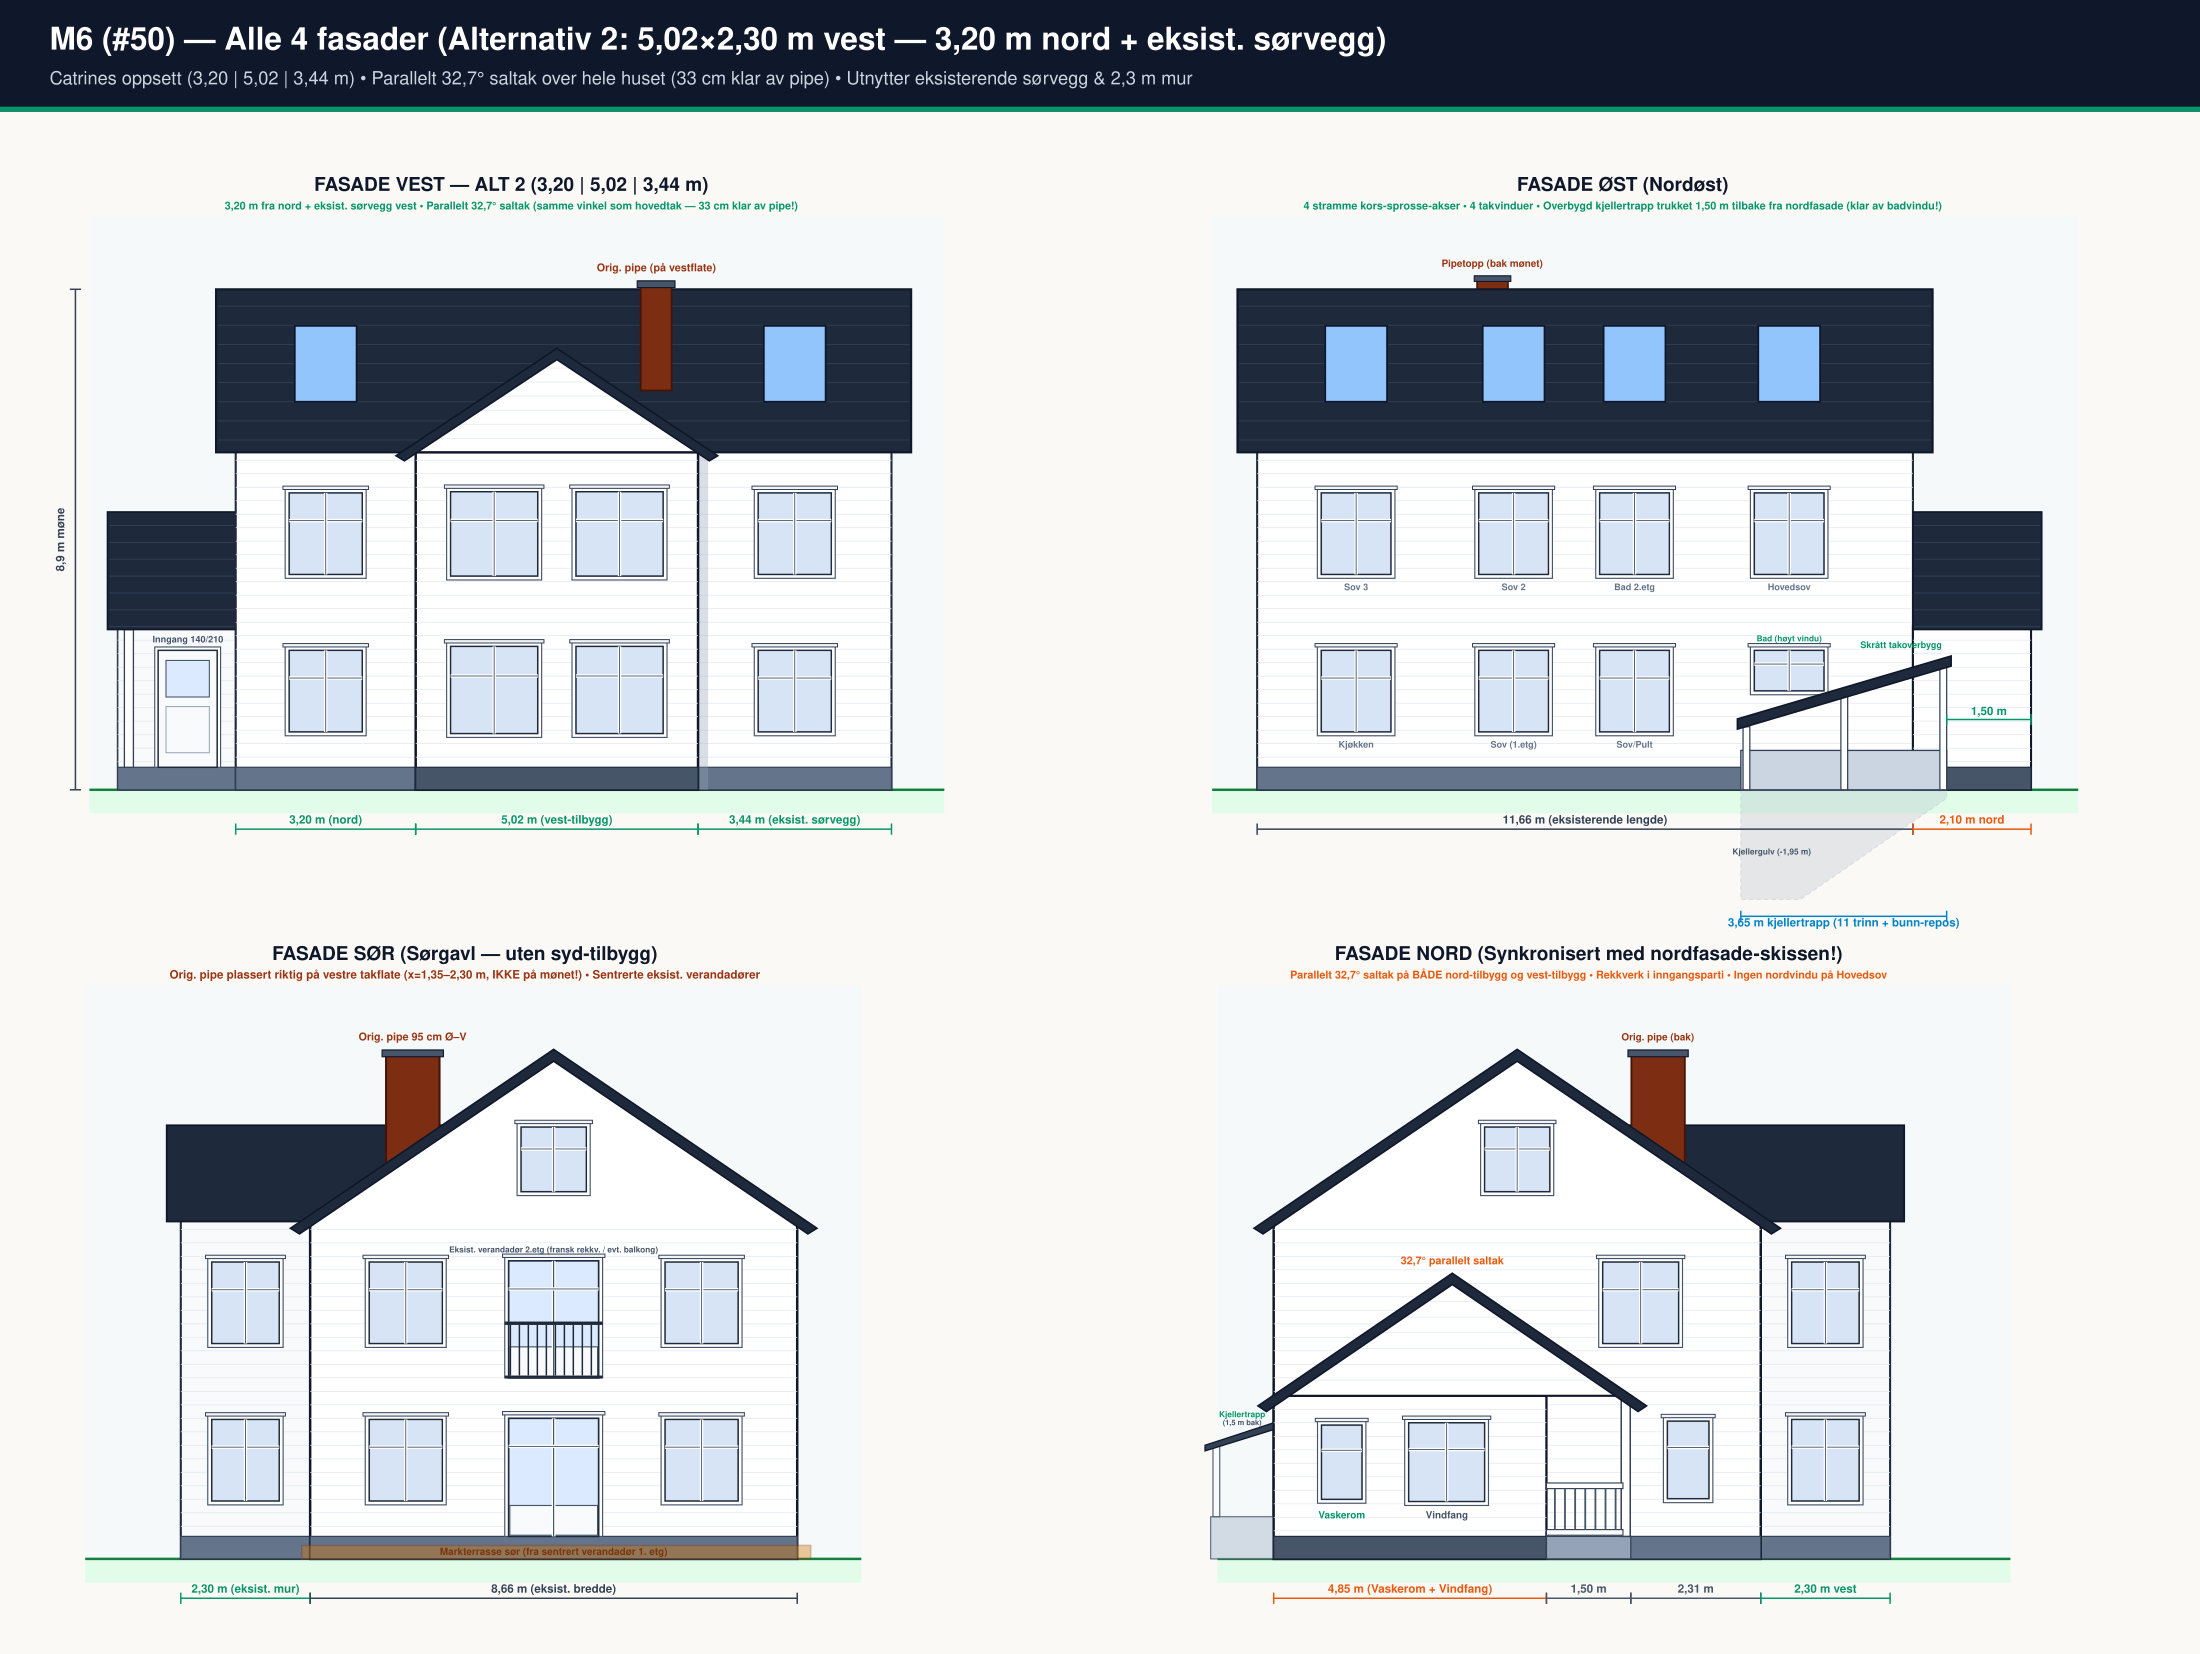
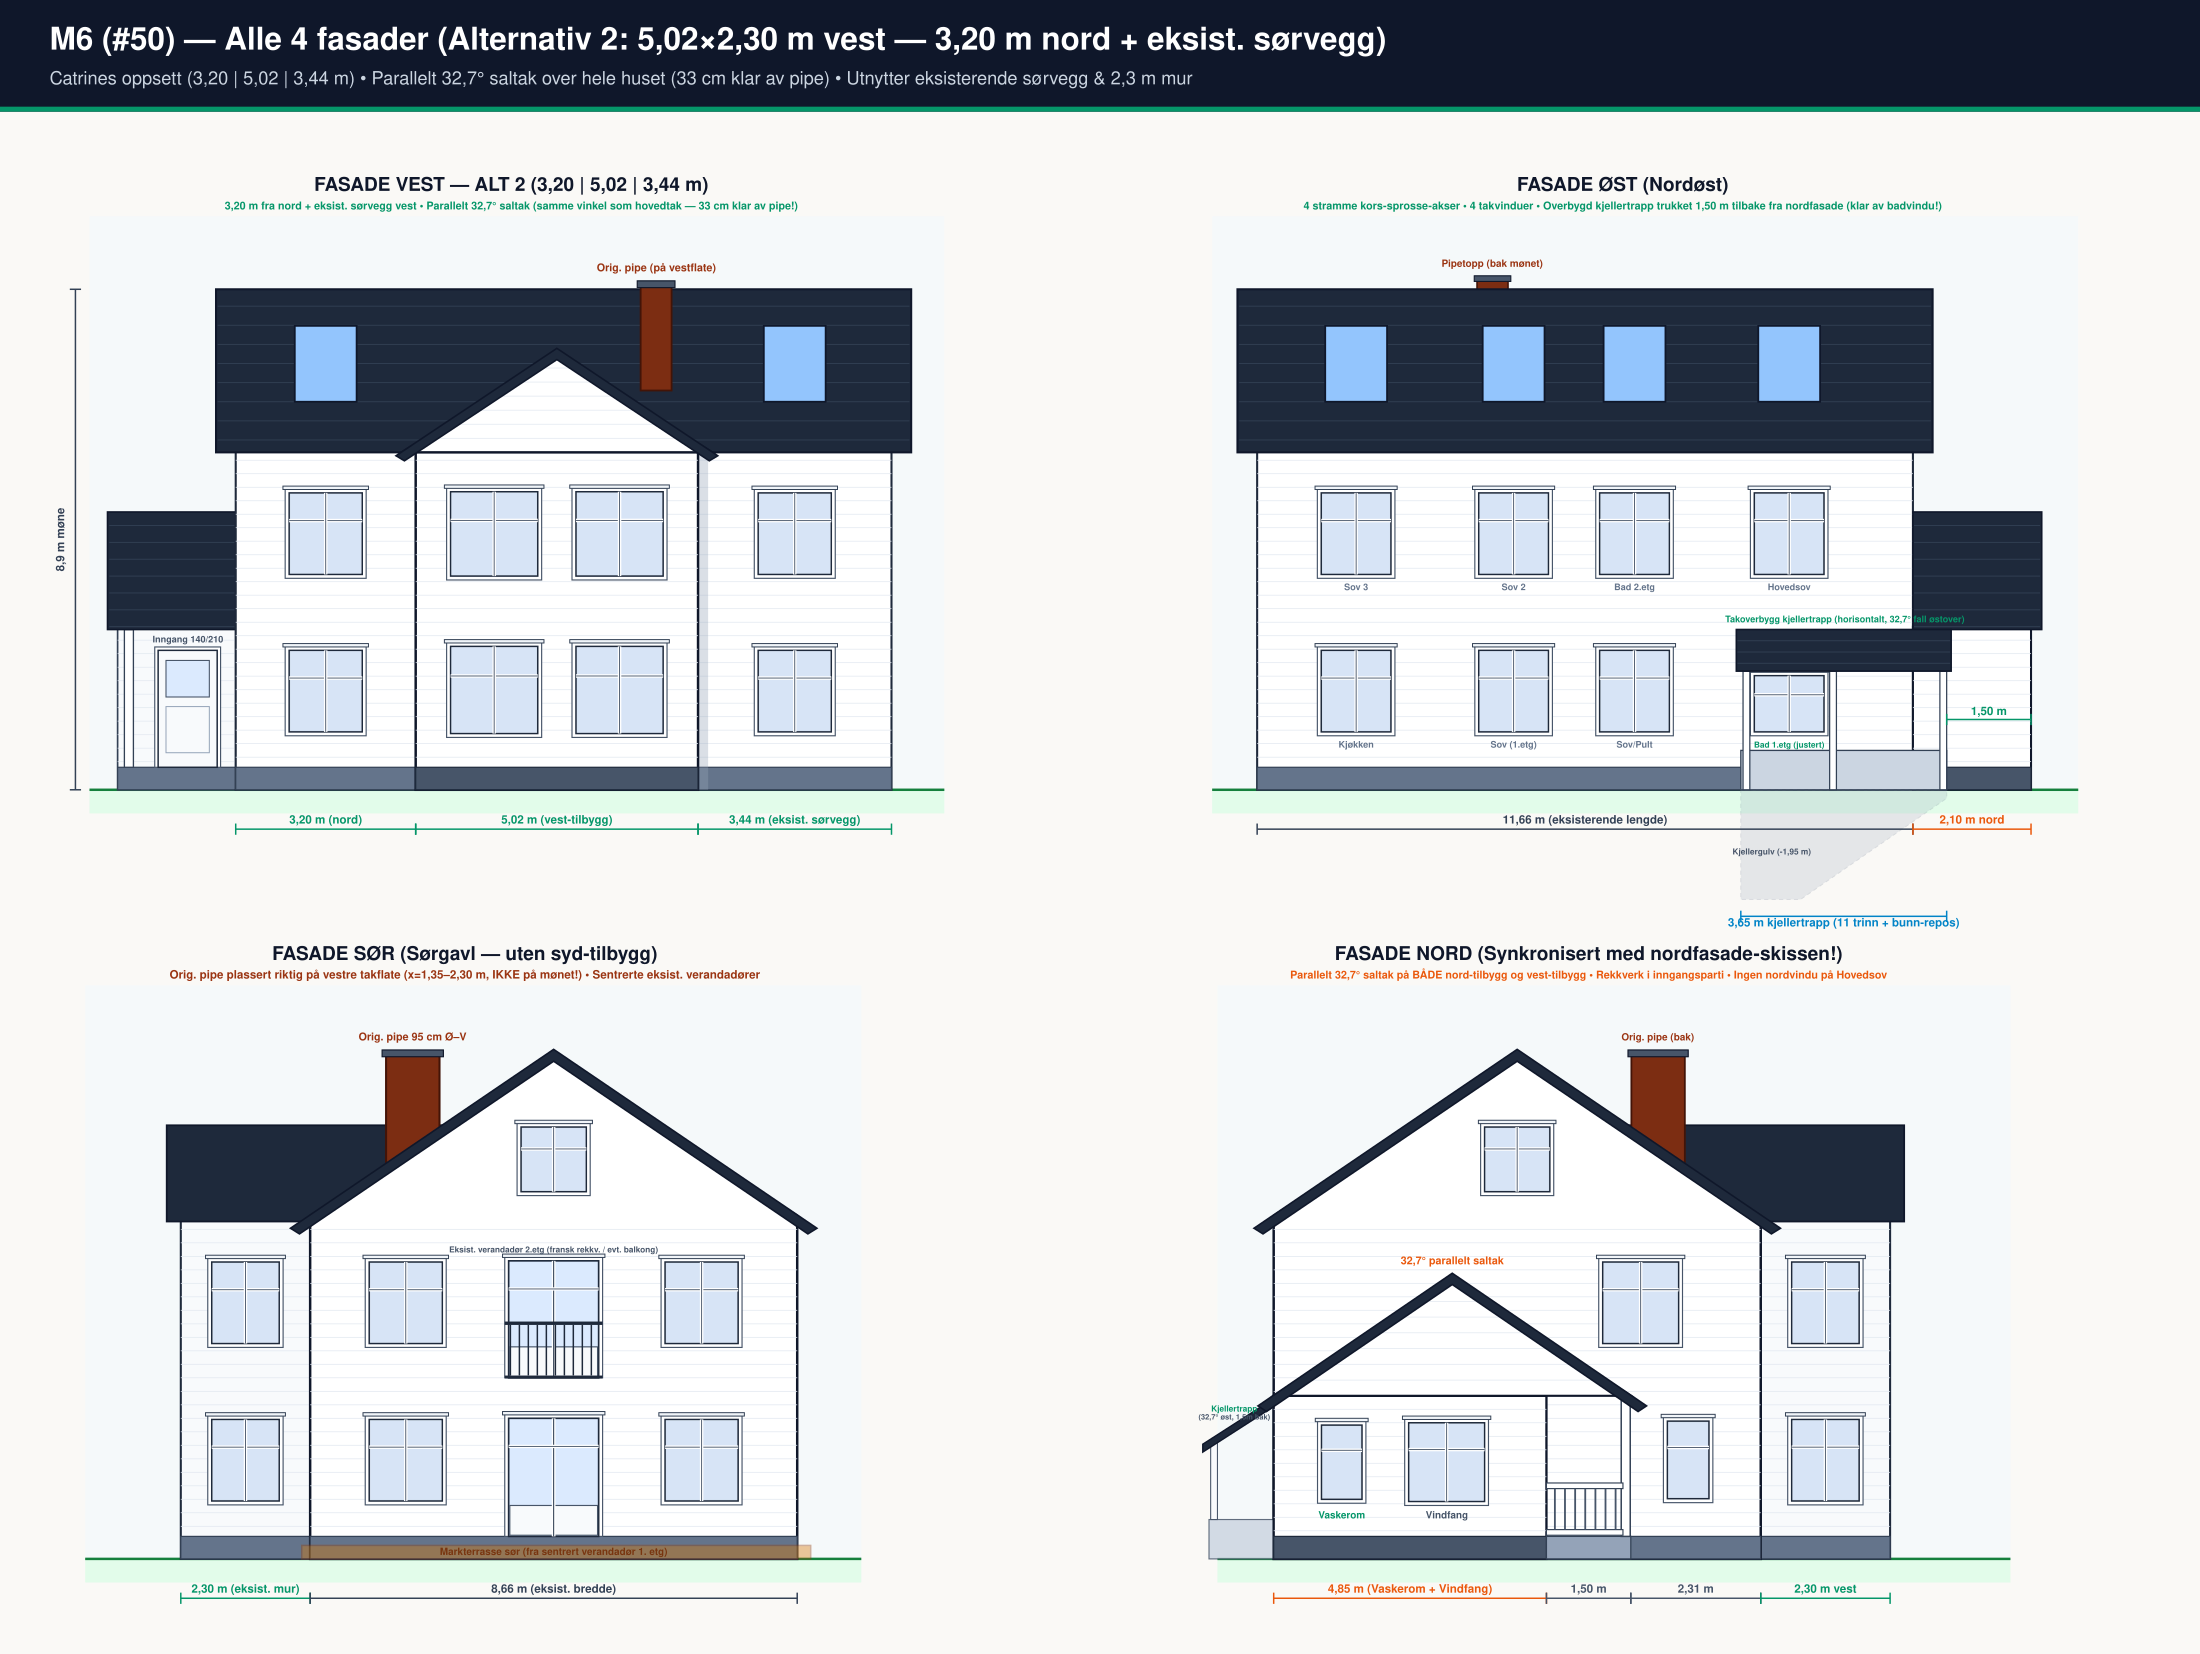
Alt 2: horizontal east-sloping (32.7°) basement stair roof flush w/ north-ext eave & aligned Bad window

Changed region(s): [[0.7727, 0.37, 0.8964, 0.4625], [0.5255, 0.8325, 0.5873, 0.925]]

diff --git a/scripts/generate_fasader_alle4.py b/scripts/generate_fasader_alle4.py
@@ -263,9 +263,9 @@ def draw_east(d: ElevDraw, alt: int = 1):
     ]
     for cx, lbl1, lbl2 in axes:
         if alt == 2 and cx == 946:
-            # Adjusted high-sill bathroom window (124 x 72 cm, top flush at -248, sill at -176) to clear continuous basement stair roof!
-            d.kors_win(cx - 62, -248, 124, 72, single=False)
-            d.text(cx, -264, "Bad (høyt vindu)", size=10, weight="700", fill="#059669")
+            # Adjusted Bad 1.etg window (124 x 100 cm, sill aligned at -103, top at -203 cleanly BELOW 211 cm stair roof eave!)
+            d.kors_win(cx - 62, -203, 124, 100, single=False)
+            d.text(cx, -75, "Bad 1.etg (justert)", size=10, weight="700", fill="#059669")
         else:
             d.kors_win(cx - 62, -248, 124, 145, single=False)
             d.text(cx, -75, lbl1, size=11, weight="700", fill="#64748b")
@@ -286,22 +286,24 @@ def draw_east(d: ElevDraw, alt: int = 1):
         d.line(1168, ry, 1392, ry, stroke="#334155", sw=1)
 
     if alt == 2:
-        # Alt 2: Full-length 3,65 m external covered basement stair along EAST wall (ΔH ~1,95-2,00 m = 11 risers + 1,05 m bottom landing!)
+        # Alt 2: Full-length 3,65 m external covered basement stair along EAST wall (ΔH ~1,95 m = 11 risers + 1,05 m bottom landing!)
         # Set back 1,50 m from north facade (x_plot = 1376 - 150 = 1226) running south to x_plot = 860 (y = +306):
-        # Single continuous sloped matte-black roof following the stair down (Z = -225 at entry -> -148 at south end),
-        # passing cleanly BELOW the adjusted high-sill Bad 1.etg window (-248..-176)!
+        # HORIZONTAL roof parallel with horizontal cladding, sloping 32,7° EASTWARD away from house!
+        # Wall height Z = -285 (100% FLUSH with north extension eave!) -> Outer eave Z = -211 (2,11 m standing headroom!)
+        # Posts cleanly frame Bad 1.etg window (x_plot = 884..1008)!
         d.poly([(860, 0), (1226, 0), (1226, -70), (860, -70)], fill="#cbd5e1", stroke="#334155", sw=1.6)
         # Dashed underground stair profile showing full descent to -1,95 m below grade!
         d.poly([(860, 0), (1226, 0), (1226, 15), (966, 195), (860, 195)], fill="#94a3b8", opacity=0.22, stroke="#64748b", sw=1.3, dash="5,4")
         d.text(915, 115, "Kjellergulv (-1,95 m)", size=10, weight="700", fill="#475569")
-        # Support columns (north entry, mid, south) + ONE clean continuous sloped roof following stair descent!
-        # Z = -220 at north entry (x=1226) sloping to -110 at south end (x=860, still 3,05 m headroom above -1,95 m landing!)
-        # Passes 20+ cm CLEANLY BELOW the raised Bad 1.etg window (-248..-176)!
-        d.rect(1214, -220, 12, 220, fill="#ffffff", stroke="#334155", sw=1.5)
-        d.rect(1038, -166, 12, 166, fill="#ffffff", stroke="#334155", sw=1.5)
-        d.rect(864, -112, 12, 112, fill="#ffffff", stroke="#334155", sw=1.5)
-        d.poly([(854, -108), (1234, -220), (1234, -238), (854, -126)], fill="#1e293b", stroke="#0f172a", sw=2.0)
-        d.text(1145, -252, "Skrått takoverbygg", size=11, weight="700", fill="#059669")
+        # 3 slender white posts framing Bad 1.etg window (north entry, north of Bad win, south of Bad win)
+        d.rect(1214, -211, 12, 211, fill="#ffffff", stroke="#334155", sw=1.5)
+        d.rect(1018, -211, 12, 211, fill="#ffffff", stroke="#334155", sw=1.5)
+        d.rect(864, -211, 12, 211, fill="#ffffff", stroke="#334155", sw=1.5)
+        # Horizontal matte-black roof parallel to cladding, sloping 32,7° EASTWARD (flush with north-ext eave -285 down to -211!)
+        d.poly([(852, -211), (1234, -211), (1234, -285), (852, -285)], fill="#1e293b", stroke="#0f172a", sw=2.0)
+        for ry in [-265, -245, -225]:
+            d.line(854, ry, 1232, ry, stroke="#334155", sw=1.0)
+        d.text(1045, -298, "Takoverbygg kjellertrapp (horisontalt, 32,7° fall østover)", size=11, weight="700", fill="#059669")
         d.dim_h(1226, 1376, -125, "1,50 m", color="#059669", bold=True, dy=-8)
         d.dim_h(860, 1226, 225, "3,65 m kjellertrapp (11 trinn + bunn-repos)", color="#0284c7", bold=True, dy=18)
 
@@ -424,11 +426,12 @@ def draw_north(d: ElevDraw, alt: int = 1):
     # 1-STORY NORTH EXTENSION (x_plot = 0..635 = 6.35 m wide, PARALLEL 32.7° SALTAK!)
     if alt == 2:
         # Subtle recessed side view of covered east basement stair (set back 1,50 m behind north facade!)
-        d.rect(-112, -75, 112, 75, fill="#cbd5e1", stroke="#475569", sw=1.4, opacity=0.85)
-        d.rect(-108, -206, 12, 131, fill="#f8fafc", stroke="#475569", sw=1.3)
-        d.poly([(-122, -202), (0, -242), (0, -230), (-122, -192)], fill="#334155", stroke="#0f172a", sw=1.6)
-        d.text(-56, -252, "Kjellertrapp", size=10, weight="700", fill="#059669")
-        d.text(-56, -238, "(1,5 m bak)", size=9, weight="600", fill="#475569")
+        # Continues the EXACT 32,7° east roof slope seamlessly from north extension eave (0, -285) out to (-115, -211)!
+        d.rect(-115, -70, 115, 70, fill="#cbd5e1", stroke="#475569", sw=1.4, opacity=0.85)
+        d.rect(-112, -211, 12, 141, fill="#f8fafc", stroke="#475569", sw=1.3)
+        d.poly([(-126, -204), (0, -285), (0, -271), (-126, -190)], fill="#1e293b", stroke="#0f172a", sw=1.8)
+        d.text(-70, -262, "Kjellertrapp", size=10, weight="700", fill="#059669")
+        d.text(-70, -248, "(32,7° øst, 1,5m bak)", size=9, weight="600", fill="#475569")
 
     # Enclosed Utebod/Vaskerom + Vindfang (x_plot = 0..485)
     d.rect(0, -290, 485, 290, fill="#ffffff", stroke="#0f172a", sw=2.8)

diff --git a/scripts/generate_vest_alternativer.py b/scripts/generate_vest_alternativer.py
@@ -585,10 +585,10 @@ def draw_shared_east_floor1(pb: PlanBuilder, north_vaskerom: bool = False):
         pb.text(921, 260, "repos", size=11, weight="700", fill="#475569")
         pb.text(921, 278, "(-1,95 m)", size=10, weight="600", fill="#0284c7")
         pb.rect(970, -60, 12, 12, fill="#334155")   # Nordre søyle
-        pb.rect(970, 120, 12, 12, fill="#334155")   # Midtsøyle
-        pb.rect(970, 294, 12, 12, fill="#334155")   # Søndre søyle
+        pb.rect(970, 140, 12, 12, fill="#334155")   # Midtsøyle (nord for badvindu!)
+        pb.rect(970, 294, 12, 12, fill="#334155")   # Søndre søyle (sør for badvindu!)
         pb.text(924, -74, "Kjellertrapp", size=12, weight="700", fill="#059669")
-        pb.text(924, 322, "3,65 m (skråtak)", size=11, weight="700", fill="#059669")
+        pb.text(924, 322, "3,65 m (32,7° øst)", size=11, weight="700", fill="#059669")
         # 1,50 m setback dimension on east side from north facade (y=-210) to stair roof (y=-60)
         pb.dim_v(1005, -210, -60, "1,50 m", color="#059669", bold=True, text_offset=20)
         pb.dim_v(1005, -60, 306, "3,65 m (11 trinn + repos)", color="#0284c7", bold=False, text_offset=20)
